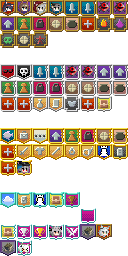
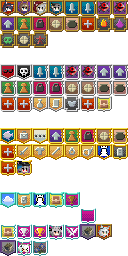
여사제 관련

Changed region(s): [[0.25, 0.9375, 0.375, 1.0]]

diff --git a/Arrrknights/core/src/main/java/com/shatteredpixel/shatteredpixeldungeon/actors/mobs/npcs/PRTS.java b/Arrrknights/core/src/main/java/com/shatteredpixel/shatteredpixeldungeon/actors/mobs/npcs/PRTS.java
@@ -4,6 +4,7 @@ import com.shatteredpixel.shatteredpixeldungeon.actors.Char;
 import com.shatteredpixel.shatteredpixeldungeon.messages.Messages;
 import com.shatteredpixel.shatteredpixeldungeon.scenes.GameScene;
 import com.shatteredpixel.shatteredpixeldungeon.sprites.DobermannSprite;
+import com.shatteredpixel.shatteredpixeldungeon.sprites.PRTS_Sprite;
 import com.shatteredpixel.shatteredpixeldungeon.windows.WndMessage;
 import com.watabou.noosa.Game;
 import com.watabou.utils.Bundle;
@@ -14,7 +15,7 @@ public class PRTS extends NPC {
     private int hint = 0;
 
     {
-        spriteClass = DobermannSprite.class;
+        spriteClass = PRTS_Sprite.class;
         properties.add(Char.Property.IMMOVABLE);
         properties.add(Property.NPC);
     }

diff --git a/Arrrknights/core/src/main/java/com/shatteredpixel/shatteredpixeldungeon/sprites/PRTS_corpseSprite.java b/Arrrknights/core/src/main/java/com/shatteredpixel/shatteredpixeldungeon/sprites/PRTS_corpseSprite.java
@@ -1,0 +1,29 @@
+package com.shatteredpixel.shatteredpixeldungeon.sprites;
+
+import com.shatteredpixel.shatteredpixeldungeon.Assets;
+import com.watabou.noosa.TextureFilm;
+
+public class PRTS_corpseSprite extends MobSprite {
+
+    public PRTS_corpseSprite() {
+        super();
+
+        texture( Assets.Sprites.PRTS2 );
+
+        TextureFilm frames = new TextureFilm( texture, 32, 32 );
+
+        idle = new Animation( 2, true );
+        idle.frames( frames, 0, 0, 0 );
+
+        run = new Animation( 10, true );
+        run.frames( frames, 0 );
+
+        attack = new Animation( 15, false );
+        attack.frames( frames, 0 );
+
+        die = new Animation( 10, false );
+        die.frames( frames, 0 );
+
+        play( idle );
+    }
+}

diff --git a/Arrrknights/core/src/main/java/com/shatteredpixel/shatteredpixeldungeon/sprites/PRTS_endSprite.java b/Arrrknights/core/src/main/java/com/shatteredpixel/shatteredpixeldungeon/sprites/PRTS_endSprite.java
@@ -1,0 +1,29 @@
+package com.shatteredpixel.shatteredpixeldungeon.sprites;
+
+import com.shatteredpixel.shatteredpixeldungeon.Assets;
+import com.watabou.noosa.TextureFilm;
+
+public class PRTS_endSprite extends MobSprite {
+
+    public PRTS_endSprite() {
+        super();
+
+        texture( Assets.Sprites.PRTS3 );
+
+        TextureFilm frames = new TextureFilm( texture, 32, 32 );
+
+        idle = new Animation( 2, true );
+        idle.frames( frames, 0, 0, 0 );
+
+        run = new Animation( 10, true );
+        run.frames( frames, 0 );
+
+        attack = new Animation( 15, false );
+        attack.frames( frames, 0 );
+
+        die = new Animation( 10, false );
+        die.frames( frames, 0 );
+
+        play( idle );
+    }
+}

diff --git a/Arrrknights/core/src/main/java/com/shatteredpixel/shatteredpixeldungeon/sprites/PRTS_Sprite.java b/Arrrknights/core/src/main/java/com/shatteredpixel/shatteredpixeldungeon/sprites/PRTS_Sprite.java
@@ -1,0 +1,29 @@
+package com.shatteredpixel.shatteredpixeldungeon.sprites;
+
+import com.shatteredpixel.shatteredpixeldungeon.Assets;
+import com.watabou.noosa.TextureFilm;
+
+public class PRTS_Sprite extends MobSprite {
+
+    public PRTS_Sprite() {
+        super();
+
+        texture( Assets.Sprites.PRTS1 );
+
+        TextureFilm frames = new TextureFilm( texture, 32, 32 );
+
+        idle = new Animation( 2, true );
+        idle.frames( frames, 0, 0, 0 );
+
+        run = new Animation( 10, true );
+        run.frames( frames, 0 );
+
+        attack = new Animation( 15, false );
+        attack.frames( frames, 0 );
+
+        die = new Animation( 10, false );
+        die.frames( frames, 0 );
+
+        play( idle );
+    }
+}

diff --git a/Arrrknights/core/src/main/java/com/shatteredpixel/shatteredpixeldungeon/sprites/ItemSpriteSheet.java b/Arrrknights/core/src/main/java/com/shatteredpixel/shatteredpixeldungeon/sprites/ItemSpriteSheet.java
@@ -734,6 +734,7 @@ public class ItemSpriteSheet {
 	public static final int MOULD   = QUEST+10;
 	public static final int NULL_DEF   = QUEST+11;
 	public static final int GAMZA   = QUEST+12;
+	public static final int MYOSOTIS   = QUEST+13;
 	static{
 		assignItemRect(SKULL,   16, 16);
 		assignItemRect(DUST,    16, 16);
@@ -748,6 +749,7 @@ public class ItemSpriteSheet {
 		assignItemRect(MOULD,    16, 16);
 		assignItemRect(NULL_DEF,    16, 16);
 		assignItemRect(GAMZA,    16, 16);
+		assignItemRect(MYOSOTIS,    16, 16);
 	}
 
 	private static final int BAGS       =                                   xy(1, 31);  //16 slots

diff --git a/Arrrknights/core/src/main/java/com/shatteredpixel/shatteredpixeldungeon/actors/mobs/npcs/PRTS_corpse.java b/Arrrknights/core/src/main/java/com/shatteredpixel/shatteredpixeldungeon/actors/mobs/npcs/PRTS_corpse.java
@@ -14,11 +14,12 @@ import com.shatteredpixel.shatteredpixeldungeon.levels.Level;
 import com.shatteredpixel.shatteredpixeldungeon.levels.RhodesLevel;
 import com.shatteredpixel.shatteredpixeldungeon.sprites.DobermannSprite;
 import com.shatteredpixel.shatteredpixeldungeon.sprites.GreenCatSprite;
+import com.shatteredpixel.shatteredpixeldungeon.sprites.PRTS_corpseSprite;
 
 public class PRTS_corpse extends NPC{
 
     {
-        spriteClass = GreenCatSprite.class;
+        spriteClass = PRTS_corpseSprite.class;
         properties.add(Char.Property.IMMOVABLE);
         properties.add(Property.NPC);
     }

diff --git a/Arrrknights/core/src/main/java/com/shatteredpixel/shatteredpixeldungeon/Assets.java b/Arrrknights/core/src/main/java/com/shatteredpixel/shatteredpixeldungeon/Assets.java
@@ -354,6 +354,9 @@ public class Assets {
 		public static final String KALTSIT	= "sprites/kaltsit.png";
 		public static final String CLOSURE	= "sprites/closure.png";
 		public static final String DOBERMANN	= "sprites/Dobermann.png";
+		public static final String PRTS1	= "sprites/PRTS.png";
+		public static final String PRTS2	= "sprites/PRTS_corpse.png";
+		public static final String PRTS3	= "sprites/PRTS_END.png";
 
 		public static final String SARKAZ_SENTINEL	= "sprites/Sarkaz_Sentinel.png";
 		public static final String SARKAZ_CENTURION	= "sprites/Sarkaz_Centurion.png";

diff --git a/Arrrknights/core/src/main/java/com/shatteredpixel/shatteredpixeldungeon/items/quest/Rose.java b/Arrrknights/core/src/main/java/com/shatteredpixel/shatteredpixeldungeon/items/quest/Rose.java
@@ -5,7 +5,7 @@ import com.shatteredpixel.shatteredpixeldungeon.sprites.ItemSpriteSheet;
 
 public class Rose extends Item {
     {
-        image = ItemSpriteSheet.CAUTUS;
+        image = ItemSpriteSheet.MYOSOTIS;
         unique = true;
     }
 

diff --git a/Arrrknights/core/src/main/java/com/shatteredpixel/shatteredpixeldungeon/Badges.java b/Arrrknights/core/src/main/java/com/shatteredpixel/shatteredpixeldungeon/Badges.java
@@ -141,7 +141,7 @@ public class Badges {
 
 		//platinum
 		HAPPY_END                   ( 96 ),
-		PRAY (121),
+		PRAY (122),
 		ALL_ITEMS_IDENTIFIED        ( 97, true ),
 		VICTORY_WARRIOR,
 		VICTORY_MAGE,
